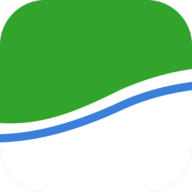
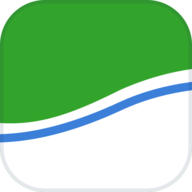
fix(web): make the landing page's brand marks and green surfaces readable
Follow-ups from reviewing the playful pass in the browser.

The mark's lower half is white, so on white and near-white surfaces it lost its
outline and read as a floating green shape rather than a tile. A hairline inset
border in the SVG gives it an edge on any background; the PNG variants are
regenerated from it.

On the green offline card the confirmation chip was filled with the brand green
itself, which made it invisible against the card it sits on, and its label was
white at 14px. It is now filled with the deep brand ink at 12:1, and the card's
body text moved to 20px — white on the brand green is 3.2:1, which clears WCAG AA
as large text and nothing smaller.

The schools step numbers used primary-des, which is a background tint and all but
disappeared on white; they use primary-pale now.

Dropped the mark from the closing call to action. Its green cover blends into the
green band, so it read as a white smear, and the band plus the swoosh already
carry the brand there.

Verified: fmt, lint, web typecheck, web tests and a production build pass, and
each fix was checked in the browser at 1440px.

diff --git a/apps/web/src/features/marketing/capabilities.tsx b/apps/web/src/features/marketing/capabilities.tsx
@@ -83,7 +83,9 @@ export const Capabilities = () => (
           <article className="flex flex-col gap-6 rounded-card-lg bg-primary p-8 text-white sm:flex-row sm:items-center sm:gap-10 sm:p-10">
             <div className="flex max-w-xl flex-col gap-3">
               <h3 className="text-2xl text-white sm:text-3xl">Funktioniert auch ohne Empfang</h3>
-              <p className="text-lg/relaxed text-white text-pretty">
+              {/* 20px minimum: white on the brand green is 3.2:1, which only clears AA as large
+                  text. Nothing on a green surface may be smaller or dimmed. */}
+              <p className="text-xl/relaxed text-white text-pretty">
                 Studienbuch speichert zuerst auf dem Gerät und gleicht ab, sobald wieder Netz da
                 ist. Die App öffnet sich mit deinen Daten statt mit einem Ladebalken, und was du im
                 Fachraum einträgst, geht nicht verloren.

diff --git a/apps/web/src/features/marketing/app-previews.tsx b/apps/web/src/features/marketing/app-previews.tsx
@@ -117,8 +117,10 @@ export const OfflinePreview = () => (
       <WifiOff className="size-4" strokeWidth={2.5} />
       Kein Netz
     </span>
-    <span className="text-xl font-bold text-primary-text">→</span>
-    <span className="flex items-center gap-2 rounded-full bg-primary px-4 py-2.5 text-sm font-bold text-white shadow-card">
+    <span className="text-xl font-bold text-white">→</span>
+    {/* Deep ink, not the brand green: this chip sits on a green card, and white on that green is
+        3.2:1 — invisible as a fill and unreadable as a label. */}
+    <span className="flex items-center gap-2 rounded-full bg-ink px-4 py-2.5 text-sm font-bold text-white shadow-card">
       <Check className="size-4" strokeWidth={3} />
       Stundenplan trotzdem da
     </span>

diff --git a/apps/web/src/features/marketing/get-the-app.tsx b/apps/web/src/features/marketing/get-the-app.tsx
@@ -1,7 +1,6 @@
 import { sectionIds } from "#/domain-ui/brand/links.ts";
 import { StoreBadges } from "#/domain-ui/brand/store-badges.tsx";
 import { SwooshPanel } from "#/domain-ui/brand/swoosh.tsx";
-import { Mark } from "#/domain-ui/brand/wordmark.tsx";
 import { Container } from "#/ui/section.tsx";
 
 /**
@@ -13,7 +12,6 @@ export const GetTheApp = () => (
   <section id={sectionIds.app}>
     <SwooshPanel>
       <Container className="flex flex-col items-center gap-7 pt-20 pb-28 text-center sm:pt-24 sm:pb-36">
-        <Mark className="size-16 rounded-[1rem] shadow-float sm:size-20 sm:rounded-[1.25rem]" />
         <h2 className="max-w-2xl text-3xl/snug text-white text-balance sm:text-5xl/snug">
           Bis gleich in der App
         </h2>

diff --git a/apps/web/src/features/marketing/for-schools.tsx b/apps/web/src/features/marketing/for-schools.tsx
@@ -37,7 +37,7 @@ export const ForSchools = () => (
           <li className="flex flex-col gap-3" key={title}>
             <span
               aria-hidden
-              className="text-5xl leading-none font-bold text-primary-des tabular-nums"
+              className="text-5xl leading-none font-bold text-primary-pale tabular-nums"
             >
               {String(index + 1).padStart(2, "0")}
             </span>
